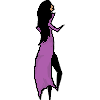
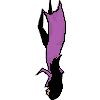
side flying animations'

Changed region(s): [[0.33, 0.0, 0.66, 1.0]]

diff --git a/scripts/main.js b/scripts/main.js
@@ -47,7 +47,7 @@ for (i=12;i<24; i++){
   }
 
 
-  
+
   windowheights[i] = windowheight;
   windowpositions[i] = position;
   position+= 3*xbound/5/10;
@@ -263,7 +263,15 @@ function collisionDetection(){
 function drawCarmen(){
 
 
-
+  if (rightPressed){
+    var img = document.getElementById("side_mid");
+    ctx.drawImage(img, 0,0,100,100, cx, cy, 80, 80);
+  }
+  else if (leftPressed){
+    var img = document.getElementById("side_mid_right");
+    ctx.drawImage(img, 0,0,100,100, cx, cy, 80, 80);
+  }
+  else{
   var img = document.getElementById("isabella");
 
   if (carmenStatus==0){
@@ -271,12 +279,13 @@ function drawCarmen(){
 
   }
   else if(carmenStatus==1){
-    ctx.drawImage(img, 0,100,100,100, cx, cy, 80, 80);
+    ctx.drawImage(img, 0,200,100,100, cx, cy, 80, 80);
   }
   else if(carmenStatus==2){
-    ctx.drawImage(img, 0,200,100,100, cx, cy, 80, 80);
+    ctx.drawImage(img, 0,400,100,100, cx, cy, 80, 80);
 
   }
+}
 
 };
 

diff --git a/index.html b/index.html
@@ -18,9 +18,11 @@
 <body>
     <img id="carmen" src="images/Asset 5.png" alt="The Scream" width="20" height="20">
     <img id="obstacle" src="images/Asset 1.png" alt="The Scream" width="30" height="30">
-    <img id="isabella" src="images/isabella falling two.png" alt="The Scream" width="100" height="200">
+    <img id="isabella" src="images/isabella falling3.png" alt="The Scream" width="100" height="200">
     <img id="window_unlit" src="images/window_unlit.png" alt="The Scream" width="100" height="200">
     <img id="window_lit" src="images/window_lit.png" alt="The Scream" width="100" height="200">
+    <img id="side_mid" src="images/isabella side mid.png" alt="The Scream" width="100" height="100">
+    <img id="side_mid_right" src="images/isabella side mid right.png" alt="The Scream" width="100" height="100">
     <canvas id='c' style='position:absolute; left:0px; top:0px;'>
     </canvas>
 
